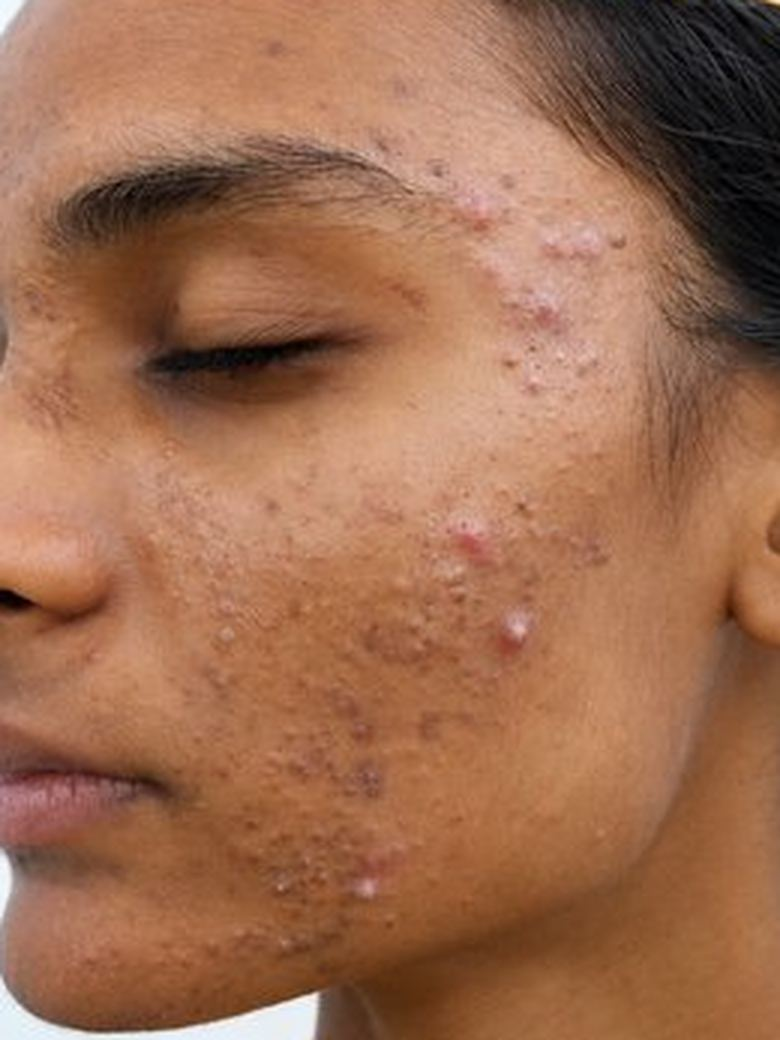
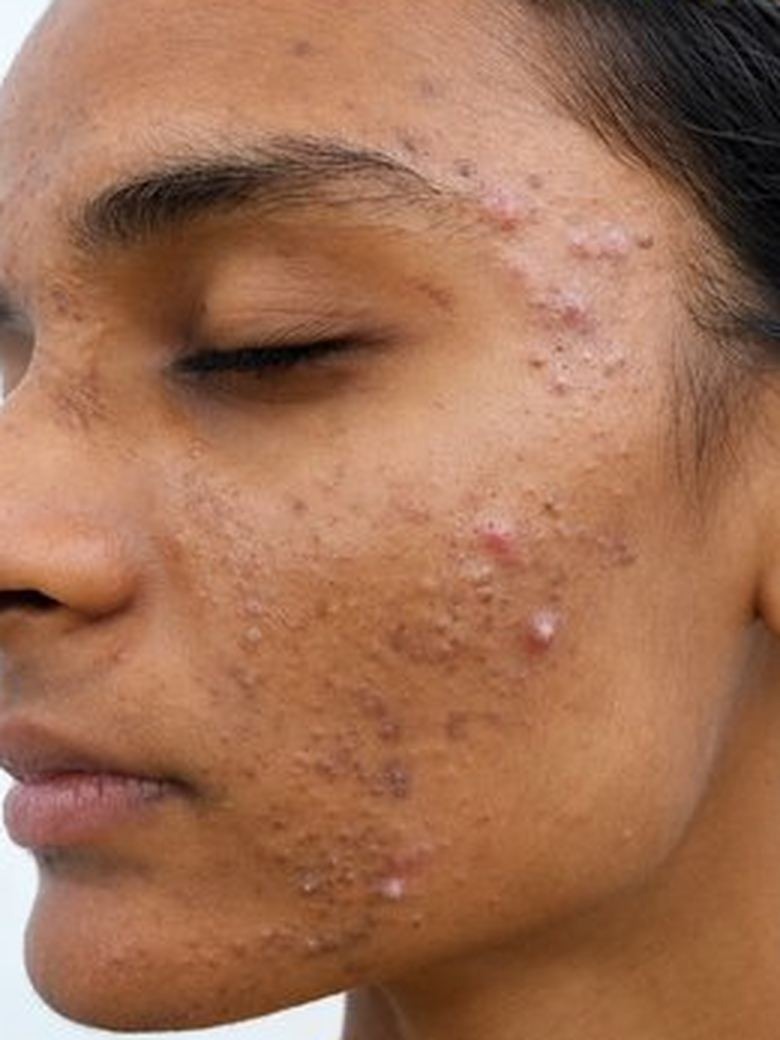
The founder joins the strip; the hero leads on a different patient
Two things the owner asked for today.

His own photograph now sits above the ten doctors, on its own line rather
than in their grid, because the line under it reads MD (DVL) and his degree
is an MBA: a pink-ringed portrait with the crown mark, the name in both
scripts and "వ్యవస్థాపకుడు · Founder & CEO".

And the card no longer opens on the melasma patient — he asked for a
different woman — so she is out of the hero set entirely and the acne case
leads instead. Her card is still in the gallery further down the page; say
the word and it comes out of there too.

That pair needed work the others did not: the two photographs were taken
from different distances, so a shared crop size left the face jumping scale
as the wipe crossed it. Both windows are now tuned by hand — found by
blending the two crops at 50% and nudging until the eyebrow, eye and lip
stopped ghosting — and the seam is invisible at any position.

diff --git a/index.html b/index.html
@@ -243,8 +243,8 @@
             <span class="ba2__badge"><svg class="ic" viewBox="0 0 24 24" aria-hidden="true"><path d="M12 2 4 5v6c0 5 3.4 8.5 8 11 4.6-2.5 8-6 8-11V5l-8-3z"/><path d="M9 12l2 2 4-4"/></svg> మా క్లినిక్ రోగుల ఫలితాలు</span>
 
             <div class="ba2__stage" id="baStage" style="--p:50%">
-              <img class="ba2__img" id="baAfter" src="assets/img/hero/melasma-after.jpg" width="780" height="1040" alt="చికిత్స తరువాత — మెలస్మా / మచ్చల చికిత్స, Medicare Skin &amp; Hair Clinic" fetchpriority="high" decoding="async">
-              <div class="ba2__clip"><img class="ba2__img" id="baBefore" src="assets/img/hero/melasma-before.jpg" width="780" height="1040" alt="చికిత్సకు ముందు — మెలస్మా / మచ్చలు" fetchpriority="high" decoding="async"></div>
+              <img class="ba2__img" id="baAfter" src="assets/img/hero/chemical-peel-after.jpg" width="780" height="1040" alt="చికిత్స తరువాత — మొటిమలు &amp; మచ్చల చికిత్స, Medicare Skin &amp; Hair Clinic" fetchpriority="high" decoding="async">
+              <div class="ba2__clip"><img class="ba2__img" id="baBefore" src="assets/img/hero/chemical-peel-before.jpg" width="780" height="1040" alt="చికిత్సకు ముందు — మొటిమలు &amp; మచ్చలు" fetchpriority="high" decoding="async"></div>
 
               <span class="ba2__chip ba2__chip--b">BEFORE</span>
               <span class="ba2__chip ba2__chip--a">AFTER</span>
@@ -258,8 +258,8 @@
             </div>
 
             <div class="ba2__bar">
-              <strong class="ba2__nm" id="baNameTe">మచ్చలు · మెలస్మా</strong>
-              <span class="ba2__sub"><em id="baNameEn">Melasma &amp; pigmentation</em><span class="ba2__doc" id="baDoc">Dr Meghana Valeti · MD (DVL)</span></span>
+              <strong class="ba2__nm" id="baNameTe">మొటిమలు · మచ్చలు</strong>
+              <span class="ba2__sub"><em id="baNameEn">Acne &amp; acne marks</em><span class="ba2__doc" id="baDoc">Dr Meghana Valeti · MD (DVL)</span></span>
             </div>
 
             <div class="ba2__tabs" id="baTabs" role="tablist" aria-label="ఏ చికిత్స ఫలితాలు చూడాలి"></div>
@@ -268,11 +268,21 @@
           </div>
 
 
-          <!-- Every doctor who actually sits in a branch, right under the card.
+          <!-- The founder, then every doctor who actually sits in a branch, right
+               under the card. He is kept out of the MD (DVL) row on purpose — his
+               degree is an MBA — and carries his own line above it.
                The faces are 330px squares cut from the top of the studio portraits
                in assets/img/doctors/ and written to .../doctors/face/ — 4-6 KB each
                rather than the 60 KB full-length portrait, for a 62px circle. -->
           <div class="hdocs">
+            <a class="hdocs__founder" href="#doctors" title="Nagaraju Bandaru — వ్యవస్థాపకుడు &amp; CEO, MEDICARE GROUP OF HOSPITALS, PHARMACIES &amp; DIAGNOSTICS · SINCE 2013">
+              <img src="assets/img/doctors/face/nagaraju.jpg" width="200" height="200" alt="Nagaraju Bandaru — వ్యవస్థాపకుడు, Medicare Group" decoding="async">
+              <span>
+                <strong>Nagaraju Bandaru <em>నాగరాజు బండారు</em></strong>
+                <small><svg class="hdocs__crown" viewBox="0 0 24 24" aria-hidden="true"><path d="M5 17.5h14l1.3-9.4-4.9 3.1L12 5.4 8.6 11.2 3.7 8.1 5 17.5z"/></svg> వ్యవస్థాపకుడు · Founder &amp; CEO</small>
+              </span>
+            </a>
+
             <p class="hdocs__head"><svg class="ic" viewBox="0 0 24 24" aria-hidden="true"><path d="M12 2 4 5v6c0 5 3.4 8.5 8 11 4.6-2.5 8-6 8-11V5l-8-3z"/><path d="M9 12l2 2 4-4"/></svg> చికిత్స చేసేది వీళ్ళే — <strong>10 మంది MD (DVL)</strong> చర్మవైద్య నిపుణులు</p>
             <ul class="hdocs__grid">
               <li><a href="#doctors" title="Dr. Meghana Valeti — MBBS, MD (DVL) · కైకలూరు · ఆకివీడు · 10+ ఏళ్ల అనుభవం"><img src="assets/img/doctors/face/meghana.jpg" width="200" height="200" alt="Dr. Meghana Valeti — MBBS, MD (DVL), కైకలూరు · ఆకివీడు" decoding="async"><span>మేఘన</span></a></li>

diff --git a/assets/css/style.css b/assets/css/style.css
@@ -2014,6 +2014,39 @@ tr.search-hit td{ background:#fff3c9; transition:background 2.5s var(--ease) .5s
    who did it in the same glance, and every face links to the full card with
    the qualification and the council registration number on it. */
 .hdocs{ width:100%; margin-top:1.05rem; }
+
+/* The founder gets his own line above the doctors rather than a slot in their
+   grid: the row below it says MD (DVL) and his degree is an MBA. */
+.hdocs__founder{
+  display:flex; align-items:center; gap:.7rem; width:100%;
+  margin:0 0 .8rem; padding:.42rem .95rem .42rem .42rem;
+  background:linear-gradient(135deg, var(--pink-tint2) 0%, var(--pink-tint) 100%);
+  border:1px solid var(--pink-soft); border-radius:var(--r-pill);
+  box-shadow:0 8px 20px -14px rgba(178,46,120,.55);
+  transition:transform .25s var(--ease), box-shadow .25s var(--ease);
+}
+.hdocs__founder:hover,
+.hdocs__founder:focus-visible{
+  transform:translateY(-2px);
+  box-shadow:0 15px 28px -14px rgba(178,46,120,.7);
+}
+.hdocs__founder:focus-visible{ outline:2px solid var(--pink); outline-offset:2px; }
+.hdocs__founder img{
+  width:52px; height:auto; aspect-ratio:1; flex:none; border-radius:50%;
+  object-fit:cover; background:#fff; border:2px solid #fff;
+  box-shadow:0 0 0 2px var(--pink), 0 6px 14px -8px rgba(178,46,120,.7);
+}
+.hdocs__founder span{
+  display:flex; flex-direction:column; gap:.06rem;
+  min-width:0; line-height:1.3; text-align:left;
+}
+.hdocs__founder strong{ font-size:.82rem; font-weight:700; color:var(--ink); }
+.hdocs__founder strong em{ font-style:normal; font-weight:600; font-size:.93em; color:var(--ink-2); }
+.hdocs__founder small{
+  display:flex; align-items:center; gap:.3rem;
+  font-size:.68rem; font-weight:700; color:var(--pink-700);
+}
+.hdocs__crown{ width:13px; height:13px; flex:none; fill:currentColor; stroke:none; }
 .hdocs__head{
   display:flex; align-items:center; justify-content:center; gap:.4rem;
   margin:0 .15rem .6rem; font-size:.78rem; line-height:1.5; color:var(--ink-2);
@@ -2050,7 +2083,7 @@ tr.search-hit td{ background:#fff3c9; transition:background 2.5s var(--ease) .5s
 }
 .hdocs__all:hover{ border-bottom-color:var(--pink); }
 
-@media (prefers-reduced-motion: reduce){ .hdocs__grid img{ transition:none; } }
+@media (prefers-reduced-motion: reduce){ .hdocs__grid img, .hdocs__founder{ transition:none; } }
 
 /* Left-aligned once the hero is two columns (the rest of the hero is centred
    below 961px, and these inherit that). */

diff --git a/assets/js/hero-ba.js b/assets/js/hero-ba.js
@@ -15,7 +15,6 @@
   "use strict";
 
   var CASES = [
-    { slug: "melasma",          te: "మచ్చలు · మెలస్మా",        en: "Melasma & pigmentation", tab: "మచ్చలు" },
     { slug: "chemical-peel",    te: "మొటిమలు · మచ్చలు",         en: "Acne & acne marks",      tab: "మొటిమలు" },
     { slug: "hair-mesotherapy", te: "జుట్టు రాలడం",             en: "Hair fall & thinning",   tab: "జుట్టు" },
     { slug: "laser-hair",       te: "అవాంఛిత రోమాలు · లేజర్",   en: "Unwanted hair · laser",  tab: "లేజర్" },
